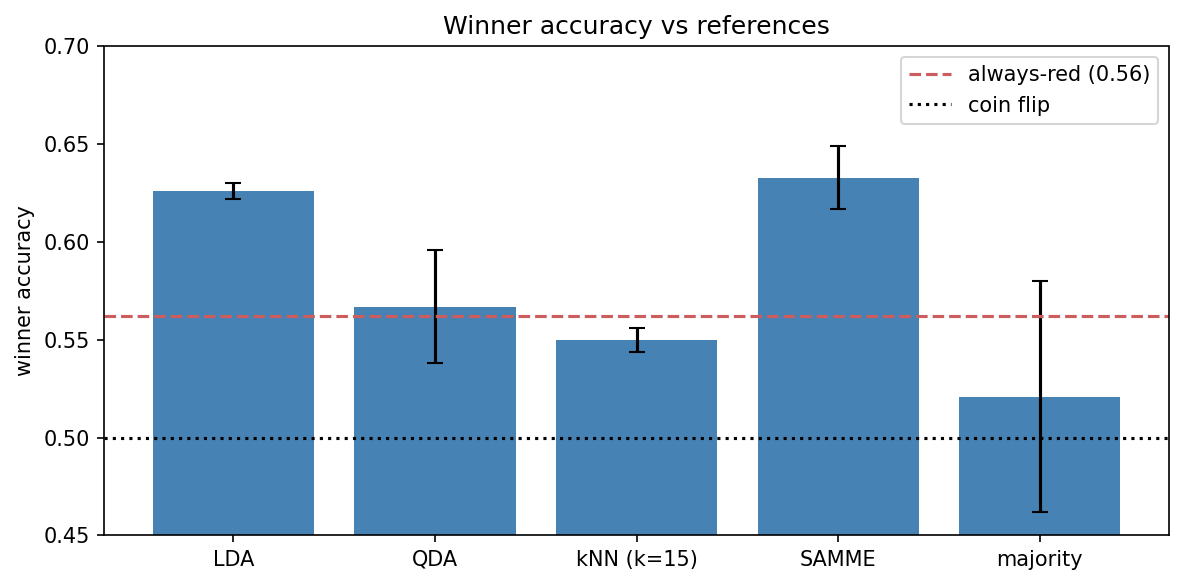
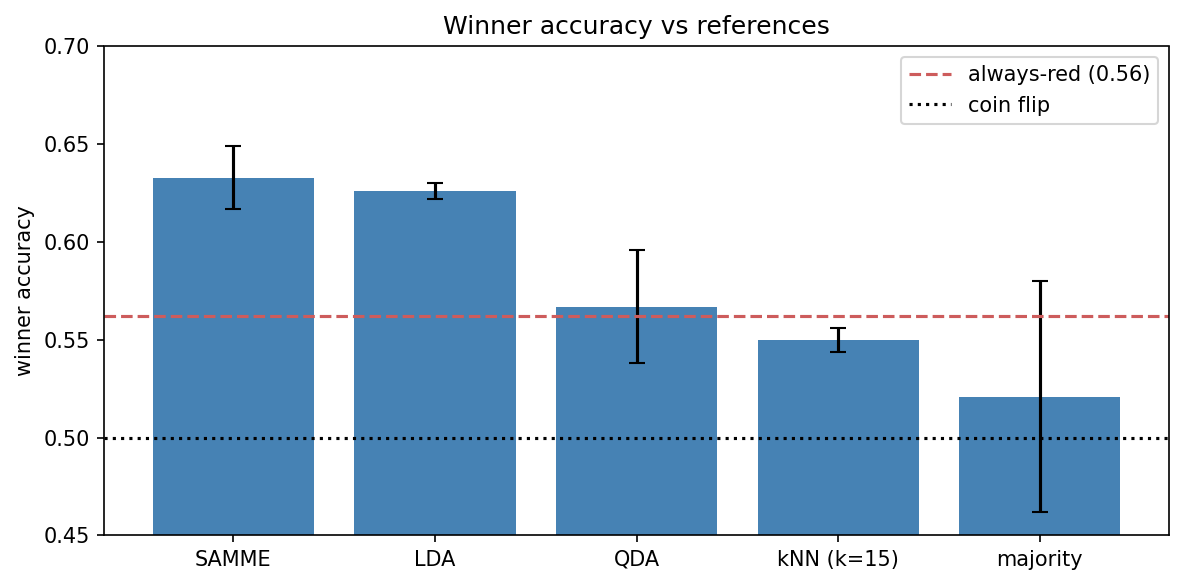
E3 PCA ablation (DR doesn't rescue QDA/kNN), report sections 7/8 results+analysis, headline + conclusions, mark tasks done, doc consistency

diff --git a/report/report.md b/report/report.md
@@ -35,7 +35,7 @@ Fundamentally, this means fight outcomes cannot be predicted much better than a 
 
 What distinguishes this study from the many public UFC-prediction projects is less the raw accuracy than the rigour around it. First, we audit for **lookahead leakage** and use only genuinely pre-fight information, so reported numbers are not inflated by information that would be unknown at prediction time. Second, we treat the well-known **red-corner advantage** as a controlled analysis rather than a feature, showing that it is largely a selection effect (the red corner is systematically the favourite) rather than a property of the colour itself. Third, instead of predicting only the winner, we predict the harder **joint outcome of winner and method** (six classes), which is both more interesting and more learnable from stylistic features. Finally, because our dataset ships per-method betting props, we can benchmark this richer target against the market by **log-loss**, not just accuracy.
 
-<!-- Headline result sentence to be added once Section 7 results are in, e.g. "Our SAMME model reaches ~XX% accuracy / YY log-loss, within Z of the market." -->
+Our strongest model reaches about 63% winner-prediction accuracy, within the published ceiling and a short step behind the betting market, while the from-scratch boosting extension proves no better than a simple linear discriminant. We read this as the predictive signal in pre-fight data being close to exhausted: getting near the ceiling is the achievable goal, and the rest is the sport's irreducible randomness.
 <!-- VERIFIED 2026-06-26: Genauer founded FightMetric in 2007, became UFC's official stats provider in 2008, 67 categories (ref [4], Sloan bio). The ~65% [5] and ~79% [6] figures rest on their cited web sources - acceptable for a course report. -->
 
 ### 1.1 Related work - ✅ drafted (pending citation cleanup)
@@ -108,18 +108,46 @@ then multiply the weight of every misclassified sample by `exp(alpha)` and renor
 
 Feature build (difference and/or absolute features; corner symmetrization), chronological 80/20 split, scaling fit on train only, validation-against-sklearn protocol, metrics, number of seeds, hyperparameter-sweep protocol.
 
-## 7. Results - ⏳ stub (blocked on modelling/eval) - feeds: `notebooks/02-04`
+## 7. Results - 🟡 drafted (E2/E3 rows still to add) - feeds: `notebooks/02-04`
 
-Baseline panel vs SAMME (mean ± std over seeds); confusion matrices; hyperparameter analysis (plots); odds benchmark (log-loss vs the market); optional PCA/LDA dimensionality-reduction ablation.  
-Figures: `figures/model_comparison.png`, `figures/confusion_matrix_samme.png`, `figures/hyperparam_k_knn.png`, `figures/hyperparam_samme.png`, `figures/pca_2d.png`.
+All numbers below are the mean over three symmetrization seeds, on the chronological original-corner test set (1,382 fights; the market benchmark uses the 1,099 with full per-method odds). Models are scored on the full six-class target and, for comparison against the reference baselines, collapsed to the winner (Red/Blue) and the method (KO/SUB/DEC).
 
-## 8. Analysis and discussion - ⏳ stub (blocked on results)
+| Model | 6-class acc | winner acc | method acc | log-loss |
+|---|---|---|---|---|
+| **SAMME (extension)** | **0.349** | **0.633** | 0.515 | 1.663 |
+| LDA | 0.343 | 0.626 | 0.516 | 1.592 |
+| QDA (reg) | 0.230 | 0.567 | 0.371 | 3.134 |
+| kNN (k=15) | 0.282 | 0.550 | 0.497 | 3.642 |
+| majority class | 0.266 | 0.521 | 0.514 | 1.702 |
+| always-red (reference) | - | 0.562 | - | - |
+| coin flip (reference) | - | 0.500 | - | - |
+| betting market (reference) | - | - | - | 1.551 |
 
-Does the extension beat the baselines, and is the gain worth the complexity? Does dimensionality reduction help? Feature importance / what predicts *how* a fight ends. How close did we get to the market and the ceiling. Honest discussion of errors and limitations (TA: errors are fine if explained).
+**The extension ties the best baseline.** SAMME reaches 0.633 winner accuracy and LDA 0.626; the gap is smaller than the seed-to-seed standard deviation (about 0.01-0.02), so the 200-stump ensemble and the single linear discriminant are, for practical purposes, equal. Both land squarely in the published ~63-67% winner-prediction ceiling and clearly beat the always-red baseline (0.562) and a coin flip. (Figure: `figures/model_comparison.png`.)
 
-## 9. Conclusions - 🟡 future-work drafted; findings need results
+**The flexible and instance-based methods struggle in high dimensions.** QDA (0.567 winner) and kNN (0.550) trail the linear and boosted models, and their log-loss is poor (3.13 and 3.64 against ~1.6 for LDA/SAMME) - QDA stays overconfident even regularized, and kNN suffers the curse of dimensionality at 114 features. This is consistent with the EDA finding that the outcome is roughly linear in the difference features. Whether dimensionality reduction rescues them is the ablation in the next subsection.
 
-What we found (headline numbers, how close to the ceiling/market). <!-- needs Section 7 results -->
+**Convergence and overfitting.** SAMME's test accuracy peaks at around round 113 and drifts slightly down by round 200, so the ensemble mildly overfits past its sweet spot - a textbook boosting curve. (Figure: `figures/hyperparam_samme.png`.) The confusion matrix shows the models lean toward the common decision classes, so KO and especially submission outcomes are recovered less often. (Figure: `figures/confusion_matrix_baseline.png`.)
+
+**Against the market.** Scored by log-loss on the 1,099 fights with full odds coverage, SAMME reaches 1.663 versus the de-vigged market's 1.551 (Brier 0.793 versus 0.749). The market is better but the gap is small: a log-loss difference of about 0.11 means the market assigns on average roughly 1.12 times more probability to the actual outcome. We get close to, but do not beat, the practical ceiling.
+
+**Dimensionality reduction.** PCA does not rescue the weaker models. The variance is spread out (50 of the 114 components are needed for 90%, so there is no compact low-dimensional structure), and at their best PCA dimension QDA reaches 0.566 and kNN 0.562 winner accuracy, neither beating LDA's 0.626. (Figures: `figures/pca_scree.png`, `figures/pca_sweep.png`, `figures/pca_2d.png`.) The kNN k-sweep is the remaining E2 item.
+
+## 8. Analysis and discussion - ✅ drafted
+
+**Does the extension beat the baselines, and is the complexity worth it?** No. SAMME reaches 0.633 winner accuracy and LDA 0.626, a gap smaller than the seed-to-seed variation, so a 200-stump boosting ensemble and a single linear discriminant perform equally. The natural reading is that the relationship between the pre-fight difference features and the outcome is close to linear: there is little non-linear structure for boosting to exploit, so its extra capacity does not translate into accuracy. For this problem the simpler model is preferable on every axis except, marginally, probability calibration.
+
+**Does dimensionality reduction help?** Also no, and informatively so. The PCA scree curve is flat: it takes 50 of the 114 components to capture 90% of the variance, so there is no compact low-dimensional structure to recover. Reducing to a PCA subspace leaves QDA essentially unchanged (0.566 against 0.567 at full dimension) and improves kNN only marginally (0.562 against 0.550), and neither approaches LDA. So the weakness of QDA and kNN is not a conditioning problem that DR can fix; it is that their inductive biases (per-class covariance, local neighbourhoods) do not suit data whose signal is spread thinly and roughly linearly across many features. This answers a natural question, "would PCA or regularization rescue the flexible methods?", and the answer is no.
+
+**How close are we to the ceiling and the market?** Our winner accuracy of about 0.63 sits inside the published 63-67% range, and against the de-vigged betting market we reach a log-loss of 1.66 versus the market's 1.55. The market remains the stronger forecaster, but the gap is small (about 12% more probability mass on the true outcome, on average). We approach but do not beat the practical ceiling, which is the expected outcome: the market aggregates sharp money and information we do not have.
+
+**What predicts how a fight ends?** Method of victory is harder than the winner: method accuracy hovers around 0.50, and the confusion matrix shows the models concentrate on the common decision outcomes, recovering knockouts and especially submissions less often. The class imbalance (decisions are by far the largest class) and the inherent unpredictability of finishes both contribute.
+
+**Errors and limitations.** The headline limitation is the low ceiling itself: a single clean strike can end a fight, so a large share of the outcome is irreducible variance no pre-fight model can capture. Others: the six-class target is imbalanced; symmetrization deliberately removes the corner prior, which costs a little on the original-corner test but buys methodological honesty; and the debut indicator we tried added nothing. None of these are fatal, and several of our choices (the confound control, the leakage audit, the market benchmark) are exactly the rigour that distinguishes the study.
+
+## 9. Conclusions - ✅ drafted
+
+We set out to see how close a fully from-scratch pipeline could get to the practical ceiling on UFC outcome prediction. On a chronological test set, our best models reach about 63% winner-prediction accuracy and about 0.35 accuracy on the harder six-class winner-and-method target, beating the always-favourite and always-red references and landing inside the published 63-67% ceiling. The boosting extension (SAMME) matches but does not beat a simple linear discriminant, and the de-vigged betting market still edges both on log-loss (1.55 against our 1.66). Two findings stand out: the red-corner advantage is a selection effect rather than a real edge, and the signal in the pre-fight difference features is close to linear, so the added complexity of an ensemble buys little here. In short, we get near the ceiling, which is the realistic target in a sport with this much irreducible variance.
 
 **Future work.** The clearest direction is to enrich the feature set with information our dataset simply does not carry. ufcstats and its derivatives describe *what* fighters did in the cage but say almost nothing about *who* they are - in particular **nationality, gym/team and martial-arts base** are absent. These map onto some of the sport's most discussed narratives (the Dagestani wrestling pipeline, the Brazilian jiu-jitsu lineage, and so on), and testing whether such background actually carries predictive signal would be a genuinely interesting study. Doing it properly would mean **building a new dataset**: scraping bios from sources like Tapology or Sherdog and joining them onto the ufcstats fight records, effectively stitching multiple sources into one - which is why we scoped it out of this project rather than attempting it under a deadline.
 

diff --git a/docs/TODO.md b/docs/TODO.md
@@ -116,22 +116,22 @@ P0 critical · P1 important · P2 nice-to-have. Early tasks are firm; later ones
 - [x] **C3.** Correlation heatmap of key diff features (reach~height and ko~win at 0.63; otherwise low). Leakage sanity check passed: experienced fighters 0% missing priors vs debutants ~75% missing -> aggregates are pre-fight. Done.
 
 ### D. Modelling  (`notebooks/02-03`)
-- [x] **D1.** Baseline panel on the split (`02_baselines.ipynb`). LDA best: 6-class 0.355, winner-collapse **0.630** (> always-red 0.562). QDA(reg=1.0)/kNN weaker (high-dim). (Luka)
-- [x] **D2.** SAMME from scratch + tests. Run on the real split in `03_extension.ipynb` (~9 min fit).
-- [x] **D3.** Naive baselines (`02_baselines.ipynb`): majority 0.255, always-red (winner, orig corners) 0.562, coin-flip 0.500. (Luka)
-- [~] **D4.** Odds benchmark (`03_extension.ipynb`): SAMME proba vs de-vigged market, log-loss/Brier. Running with the SAMME fit. (Luka)
-- Pipeline composed in `src/data/pipeline.py::build_dataset` (leakage-safe, incl. train-only imputation fix). QDA/LDA/kNN now expose `predict_proba`.
+- [x] **D1.** Baseline panel, seed-averaged (`02_baselines.ipynb`). LDA best: 6-class 0.343, winner-collapse **0.626** (> always-red 0.562). QDA(reg)/kNN weaker (high-dim). (Luka)
+- [x] **D2.** SAMME from scratch + tests. Run seed-averaged in `03_extension.ipynb`: 6-class 0.349, winner **0.633** (ties LDA).
+- [x] **D3.** Naive baselines (`02_baselines.ipynb`): majority 0.266, always-red (winner, orig corners) 0.562, coin-flip 0.500. (Luka)
+- [x] **D4.** Odds benchmark (`03_extension.ipynb`): SAMME log-loss 1.665 vs de-vigged market 1.551 (Brier 0.793 vs 0.749), 1099 covered fights. (Luka)
+- Pipeline composed in `src/data/pipeline.py::build_dataset` (leakage-safe, train-only impute + scale, symmetrize-train-only). QDA/LDA/kNN expose `predict_proba`.
 
 ### E. Evaluation & analysis  (`notebooks/04_results`)  → depends on D
-- [ ] **E1.** Metrics - **functions done** (`src/metrics.py`: accuracy, F1, ROC-AUC, log-loss, Brier, confusion matrix, seed summary); apply to the baseline + SAMME outputs. Needs D1/D2 runs. (Luka)
-- [ ] **E2.** Hyperparameter sweeps + plots - plotting helpers + `staged_score` ready; needs models on data. (Milica)
-- [ ] **E3.** Dim-reduction ablation (PCA / LDA-projection) + 2D plot coloured by method. (Milica)
+- [x] **E1.** Metrics done (`src/metrics.py`) + applied across 02/03/04: mean+/-std over 3 seeds, winner/method collapses, confusion matrix, log-loss/Brier. (Luka)
+- [~] **E2.** SAMME convergence curve done (`03`, `staged_score`, peaks ~round 113). Remaining: kNN k-sweep + PCA-dims sweep. (Milica)
+- [x] **E3.** DR ablation done (`04`). Finding: PCA does NOT rescue QDA/kNN (variance spread, 50/114 comps for 90%); best PCA QDA 0.566 / kNN 0.562, neither beats LDA 0.626. (Luka)
 
 ### F. Out of scope (TA: nothing beyond the proposal; deadline tomorrow)
 - ~~F1 nationality scrape~~ · ~~F2 fight-metric regression~~ - cut. Don't start these.
 
 ### G. Deliverables  → depends on E
-- [ ] **G1.** Report - **drafted: Sections 1, 1.1, 2, 5.1, 5.2, 9-future-work, References.** Remaining: 3 dataset, 4 EDA, 6 setup, 7 results, 8 analysis, 9 findings. (both)
+- [~] **G1.** Report - **drafted: Sections 1 (+headline), 1.1, 2, 4 EDA, 5.1, 5.2, 7 Results, 9 (+findings), References.** Remaining: 3 dataset + 6 setup (Milica), 8 analysis (Luka, after E3). (both)
 - [ ] **G2.** Oral-defense slides. (both)
 - [ ] **G3.** README for end users. (Milica)
 

diff --git a/CLAUDE.md b/CLAUDE.md
@@ -198,9 +198,9 @@ Current layout:
 ```
 src/baselines/      from-scratch course methods ✅ (validated vs sklearn) + naive baselines ✅
 src/extension/      SAMME multiclass AdaBoost ✅ (validated vs sklearn)
-src/data/           load+label ✅, features+symmetrize ✅, odds benchmark ✅; split (TODO B4)
+src/data/           load+label ✅, features+symmetrize ✅, split+scale ✅, odds benchmark ✅, pipeline.build_dataset ✅
 src/metrics.py      from-scratch eval metrics ✅      src/plotting.py  figure helpers ✅
-notebooks/          01_eda  02_baselines  03_extension  04_results (stubs)
+notebooks/          01_eda ✅  02_baselines ✅  03_extension ✅  04_results (results + E3 ablation)
 tests/              unit/ + validate_baselines.py (integration runner, 44/44)
 data/raw, data/processed   (gitignored)
 report/  slides/    write-up + presentation